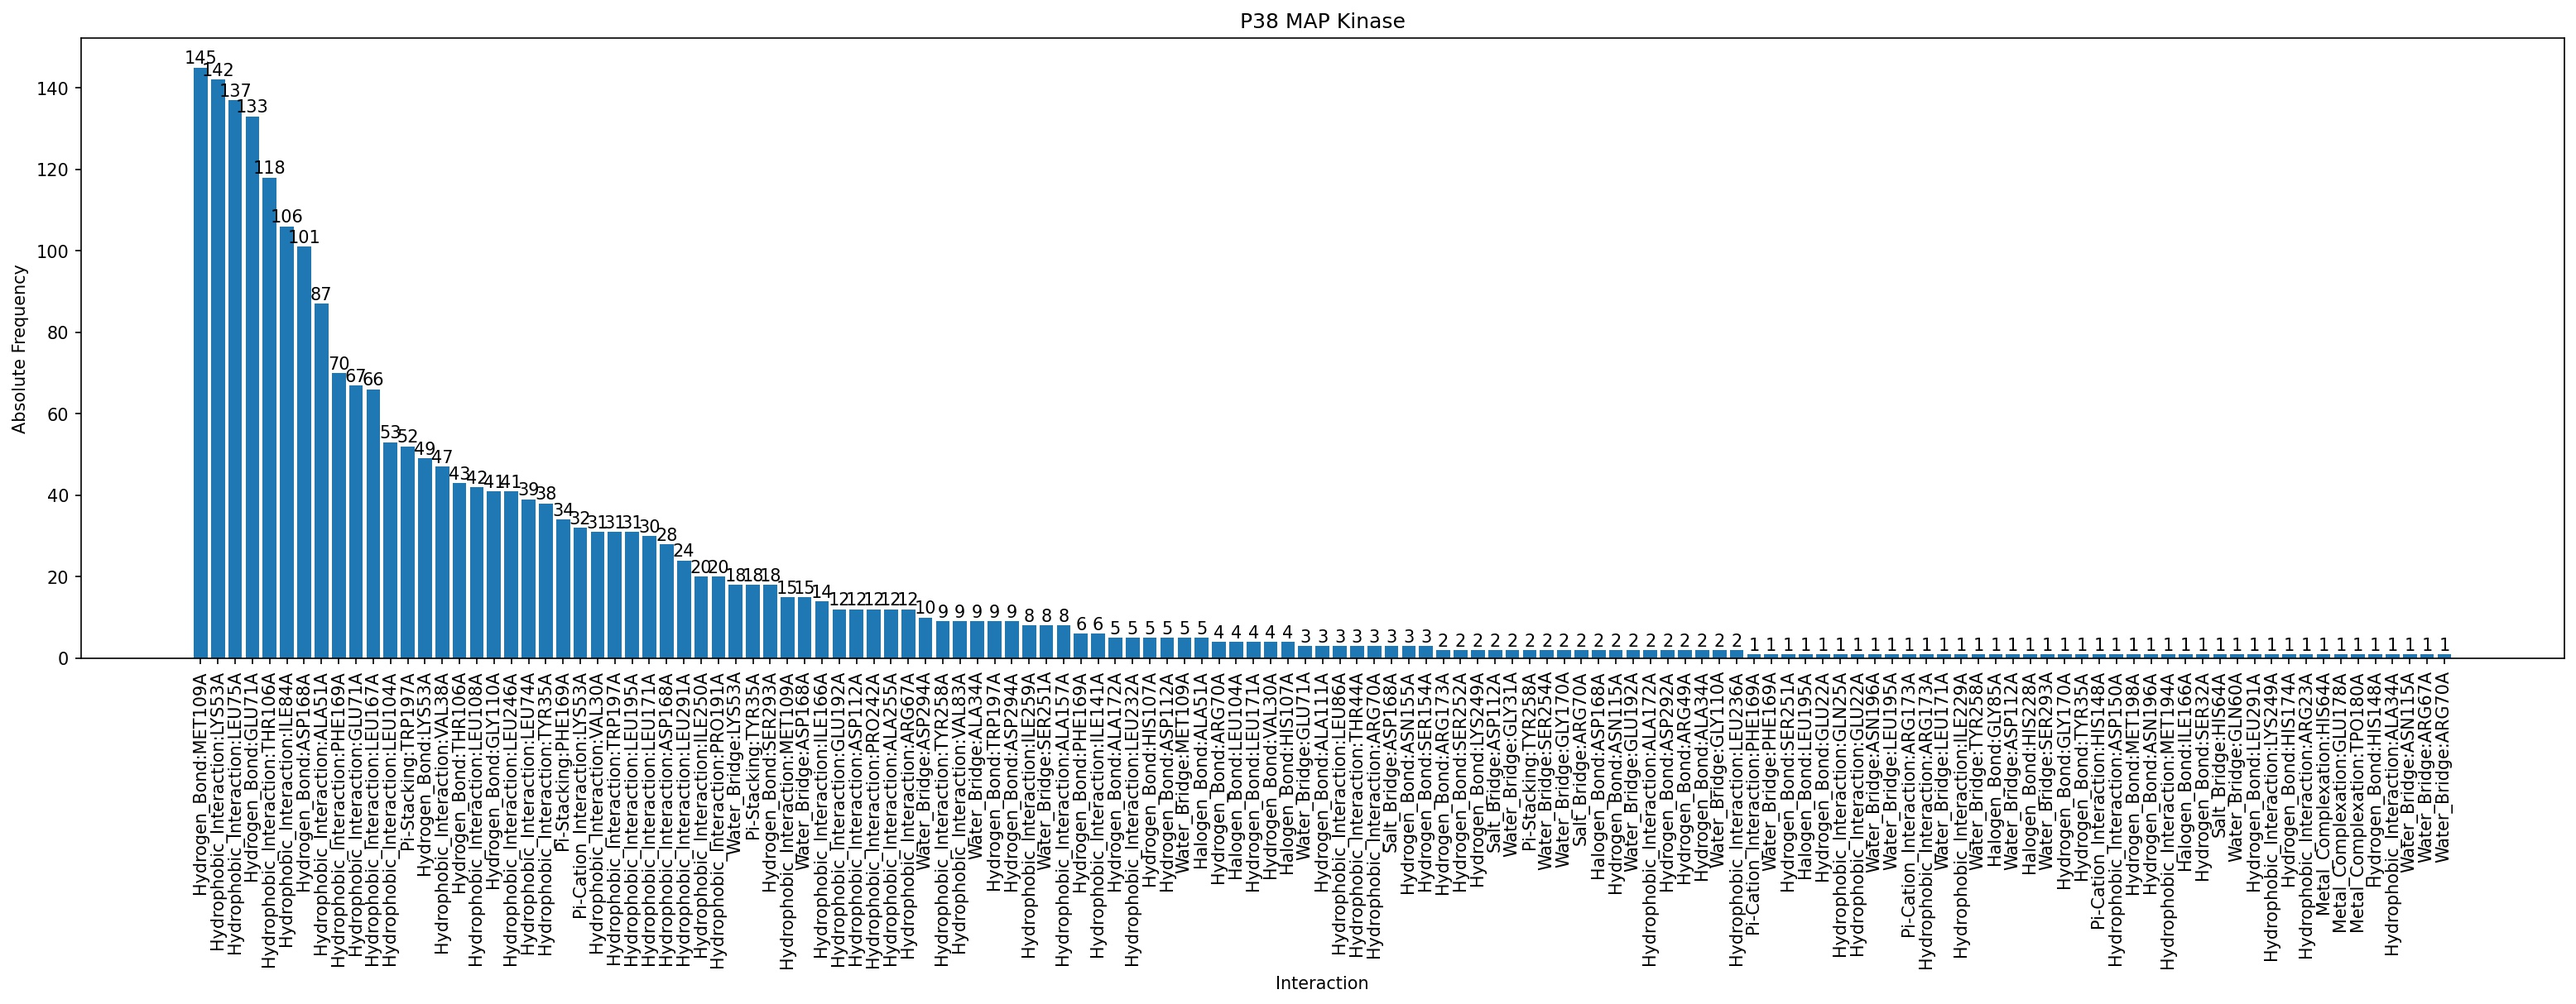
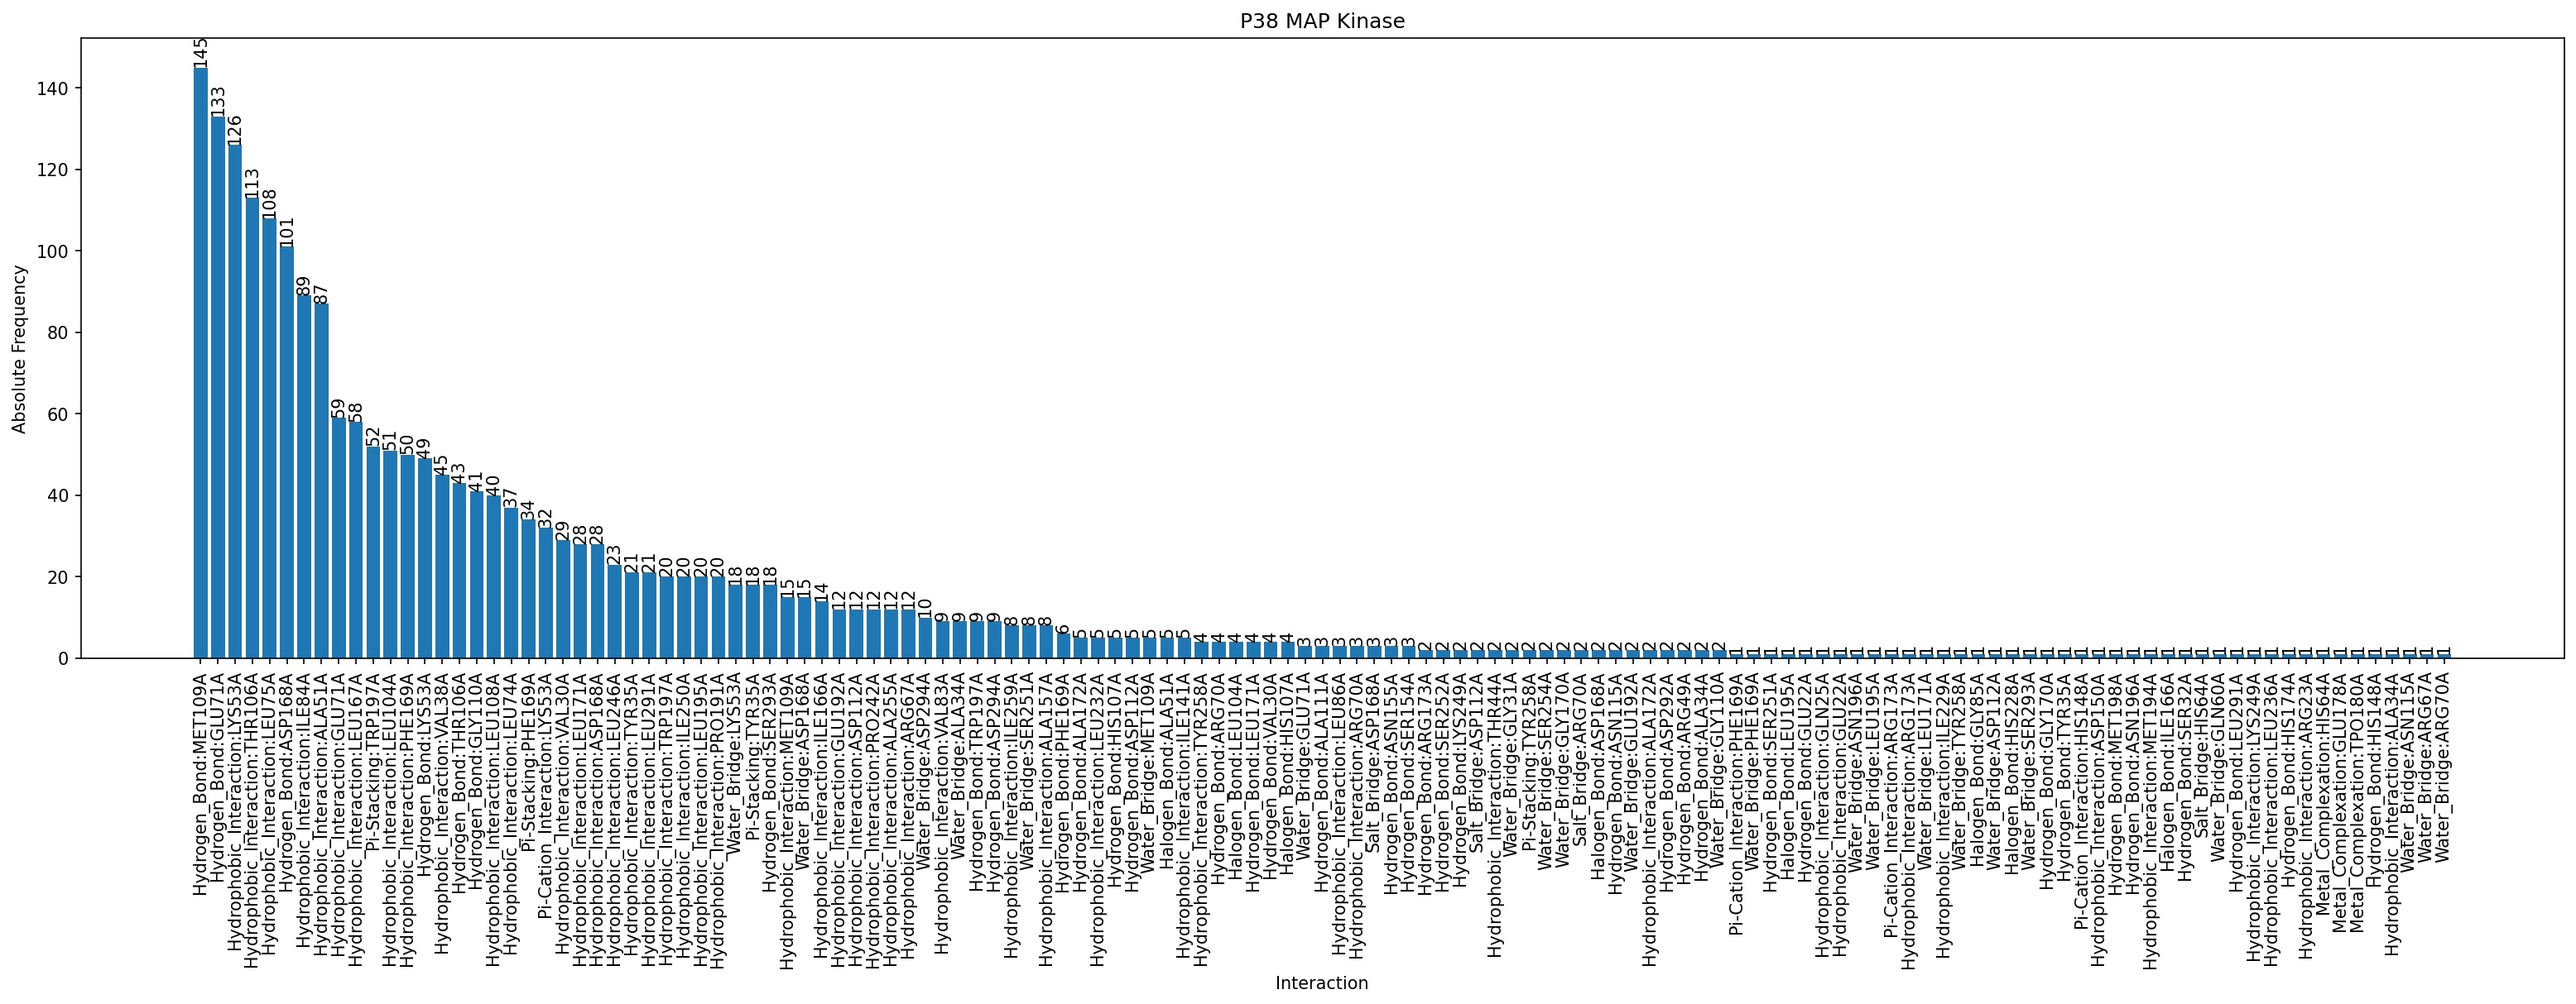
bump P38MAPK results to newer version

diff --git a/data/p38_map_kinase/plip_analysis.py b/data/p38_map_kinase/plip_analysis.py
@@ -22,13 +22,21 @@ if __name__ == '__main__':
     PDB_ENTRIES = list(df["PDB_ENTRY"])
     print("First 5 PDB entries:")
     print(PDB_ENTRIES[:5])
-    result = pa(PDB_ENTRIES, path = "structures")
+    result = pa(PDB_ENTRIES, path = "structures", normalize = False)
     r = result.save("results/p38_map_kinase")
     print("Result saved in:")
     print(r)
     r = result.to_csv("results/p38_map_kinase_freq.csv")
     result.plot("P38 MAP Kinase", filename = "results/p38_map_kinase.jpg")
     result.plot("P38 MAP Kinase", filename = "results/p38_map_kinase.png")
+    # normalized results
+    result = pa(PDB_ENTRIES, path = "structures", normalize = True)
+    r = result.save("results/p38_map_kinase_normalized")
+    print("Result saved in:")
+    print(r)
+    r = result.to_csv("results/p38_map_kinase_normalized_freq.csv")
+    result.plot("P38 MAP Kinase", filename = "results/p38_map_kinase_normalized.jpg")
+    result.plot("P38 MAP Kinase", filename = "results/p38_map_kinase_normalized.png")
 
     # clean up
     os.remove("PLIPAnalyzer.py")
